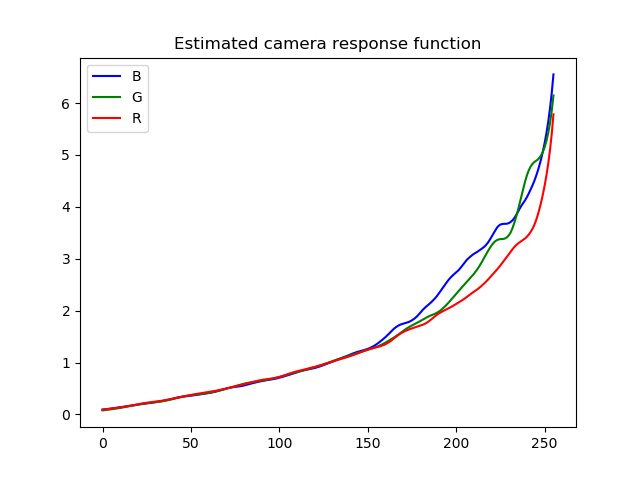
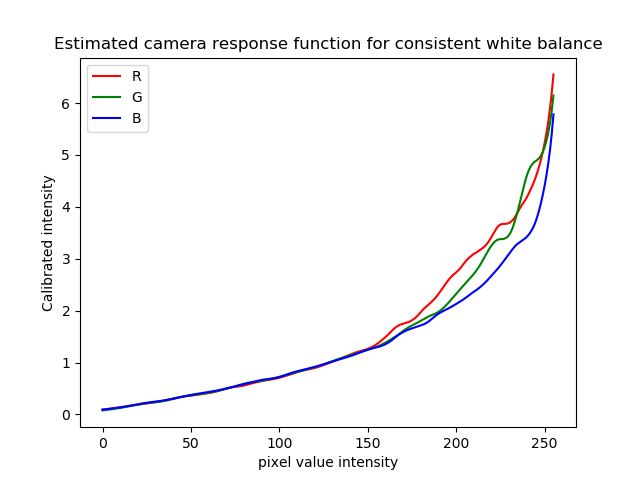
Test case

diff --git a/algorithm.py b/algorithm.py
@@ -23,7 +23,7 @@ def tone_map(HDR_object):
 
 def save_result(HDR_result):
     result_image = np.clip(HDR_result * 255, 0, 255).astype('uint8')
-    cv.imwrite("./Test Images/5/consistent/Result.jpg", result_image)
+    cv.imwrite("./Test Images/2/Inconsistent/Result.jpg", result_image)
 
 def graph_camera_response_function(images, times):
     calibration = cv.createCalibrateDebevec()
@@ -31,25 +31,27 @@ def graph_camera_response_function(images, times):
     return crf_debevec
 
 if __name__ == "__main__":
-    time = np.array([1.0/142.0, 1.0/91.0, 1.0/56.0, 1.0/30.0], dtype=np.float32)
-    paths = ["./Test Images/5/consistent/1.jpeg",
-             "./Test Images/5/consistent/2.jpeg",
-             "./Test Images/5/consistent/3.jpeg",
-             "./Test Images/5/consistent/4.jpeg"]
+    time = np.array([1.0/8000.0, 1.0/1020.0, 1.0/100.0, 1.0/20.0], dtype=np.float32)
+    paths = ["./Test Images/2/Inconsistent/1.jpg",
+             "./Test Images/2/Inconsistent/2.jpg",
+             "./Test Images/2/Inconsistent/3.jpg",
+             "./Test Images/2/Inconsistent/4.jpg"]
     images = readImagesAndTimes(paths)
     merge_mertens = cv.createMergeMertens()
     fusion = merge_mertens.process(images)
     fusion_8bit = np.clip(fusion * 255, 0, 255).astype('uint8')
-    cv.imwrite("./Test Images/5/consistent/fusion_result.png", fusion_8bit)
+    cv.imwrite("./Test Images/2/Inconsistent/fusion_result.png", fusion_8bit)
     hdr_merge = tone_merge(images, time)
     mapping = tone_map(hdr_merge)
     save_result(mapping)
     x_value = [x for x in range(0, 256)]
     vectors = graph_camera_response_function(images, time)
-    plt.plot(x_value, vectors[:, :, 0], label='B', color='b')
+    plt.plot(x_value, vectors[:, :, 0], label='R', color='R')
     plt.plot(x_value, vectors[:, :, 1], label='G', color='g')
-    plt.plot(x_value, vectors[:, :, 2], label='R', color='r')
+    plt.plot(x_value, vectors[:, :, 2], label='B', color='b')
+    plt.xlabel("pixel value intensity")
+    plt.ylabel("Calibrated intensity")
     plt.legend()
-    plt.title("Estimated camera response function")
-    plt.savefig('./Test Images/5/consistent/CRF.png')
+    plt.title("Estimated camera response function for inconsistent white balance")
+    plt.savefig('./Test Images/2/Inconsistent/CRF.png')
     plt.show()
